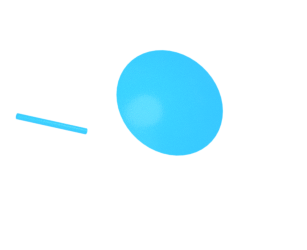
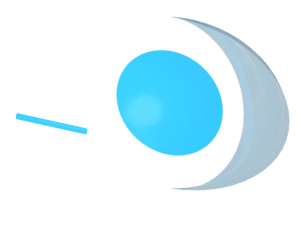
Render bowed shield field canopy behind projector shoes

Changed region(s): [[0.557, 0.056, 0.9674, 0.784]]

diff --git a/space-battleship/assets/ui/reactor/b01/generate_reactor_devices.py b/space-battleship/assets/ui/reactor/b01/generate_reactor_devices.py
@@ -124,6 +124,7 @@ def setup():
         "contact": material("contact shadow iron", (.018,.033,.042), .08,.85),
         "blue": material("unpowered shield glass", (.006,.045,.11), .25,.16,.035),
         "blue_lit": material("shield field filaments", (.025,.40,.85), .05,.2,1.3),
+        "blue_field": material("deployed field glass", (.025,.28,.52), .12,.12,.30,.38),
         "orange": material("furnace liner", (.24,.075,.022), .18,.53,.035),
         "slag": material("unpowered cooled charge", (.16,.075,.038), .12,.63,.012),
         "orange_lit": molten_material(),
@@ -254,6 +255,33 @@ def molten_bath(name,outline,mat):
     mesh.from_pydata(verts,[],faces)
     mesh.materials.append(mat)
     ob=bpy.data.objects.new(name,mesh)
+    bpy.context.collection.objects.link(ob)
+    for face in mesh.polygons:face.use_smooth=True
+    return ob
+
+
+def field_canopy(mat):
+    """A bowed glass field suspended outside the projector shoe circumference."""
+    rows,columns=28,8
+    verts=[]
+    for i in range(rows+1):
+        theta=-math.pi/2+math.pi*i/rows
+        bow=max(0.0,math.cos(theta))
+        y=172+94*math.sin(theta)
+        for j in range(columns+1):
+            span=j/columns
+            x=1050+(79+49*span)*bow
+            z=54+27*math.sin(math.pi*span)*bow
+            verts.append((x,-y,z))
+    faces=[]
+    for i in range(rows):
+        for j in range(columns):
+            a=i*(columns+1)+j
+            faces.append((a,a+1,a+columns+2,a+columns+1))
+    mesh=bpy.data.meshes.new("deployed field canopy")
+    mesh.from_pydata(verts,[],faces)
+    mesh.materials.append(mat)
+    ob=bpy.data.objects.new("deployed field canopy",mesh)
     bpy.context.collection.objects.link(ob)
     for face in mesh.polygons:face.use_smooth=True
     return ob
@@ -514,6 +542,7 @@ def defence(spec,m):
     disc("field emitter barrel",1050,172,75,18,43,m["dark"])
     disc("recessed dielectric well",1050,172,68,4,53,m["black"])
     convex_lens("convex glass force face",1050,172,57,53,m["blue_lit"])
+    field_canopy(m["blue_field"])
     for j in range(8):
         x0=-39+j*9.5
         x1=x0+8.2
@@ -705,11 +734,12 @@ def run():
             "port_screen": [p2.x*W,(1-p2.y)*H],
             "contract_port": spec["device_port"],
         },indent=2))
-        work_mats={mats["blue_lit"],mats["orange_lit"],mats["violet_lit"]}
+        work_mats={mats["blue_lit"],mats["blue_field"],mats["orange_lit"],mats["violet_lit"]}
         original_slots={ob:[slot.material for slot in ob.material_slots]
                         for ob in bpy.context.scene.objects if ob.type == "MESH"}
         work_objects={ob for ob,slots in original_slots.items() if any(mat in work_mats for mat in slots)}
         for ob,slots in original_slots.items():
+            if ob.name == "deployed field canopy": ob.hide_render=True
             for i,mat in enumerate(slots):
                 if mat == mats["blue_lit"]: ob.material_slots[i].material=mats["blue"]
                 if mat == mats["orange_lit"]: ob.material_slots[i].material=mats["slag"]
